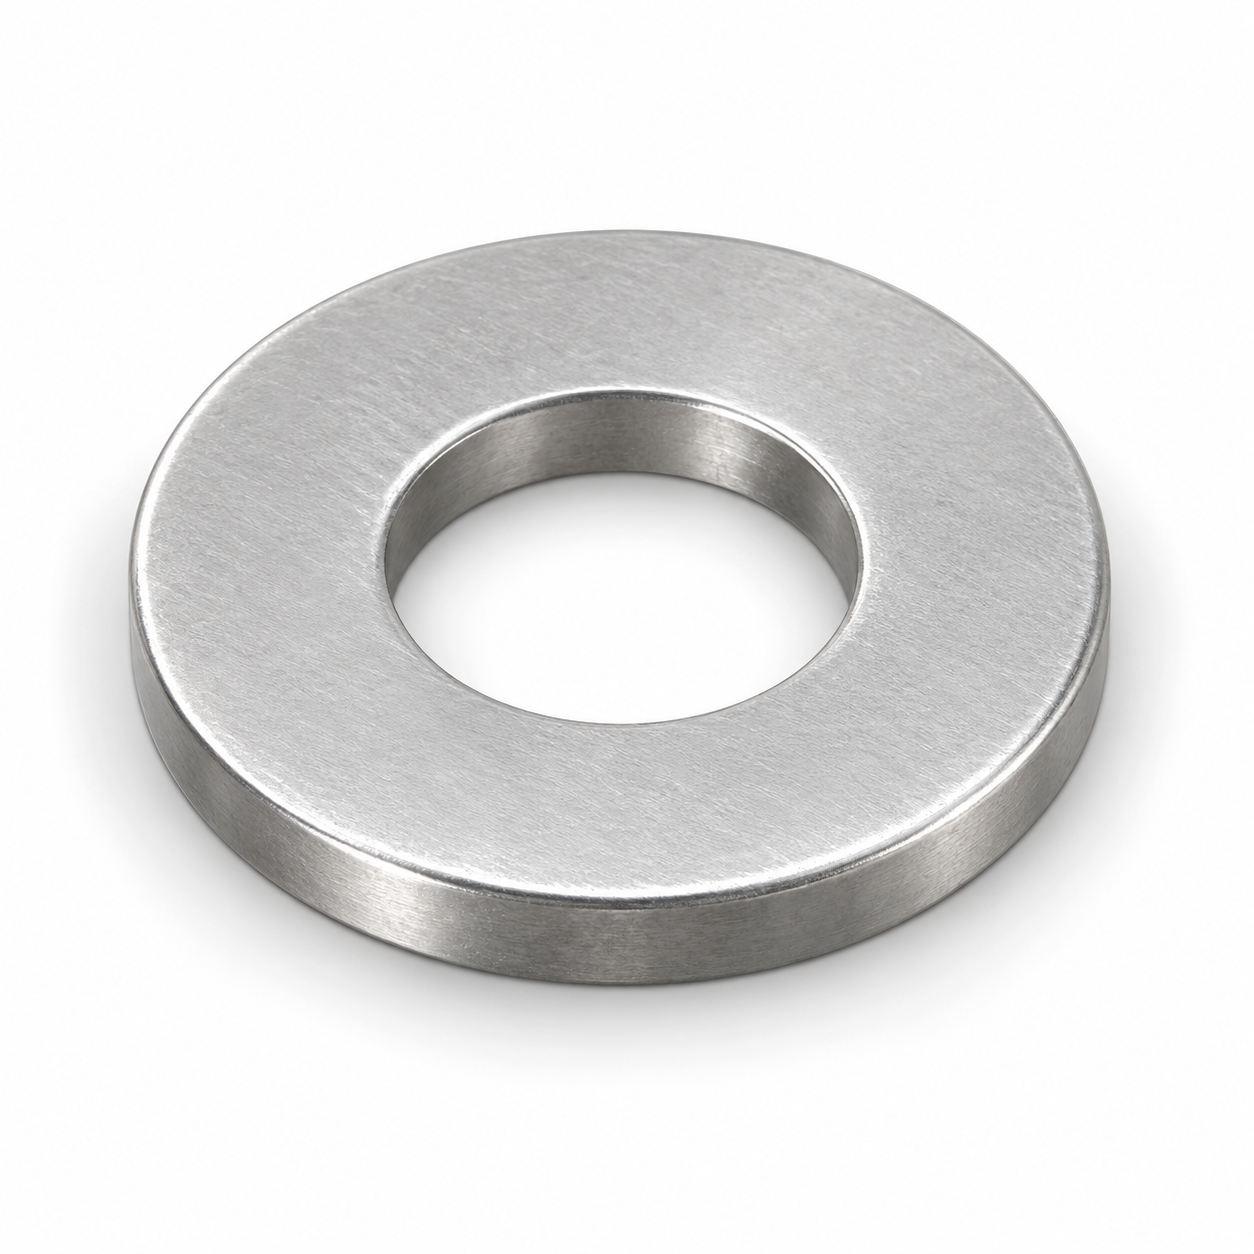
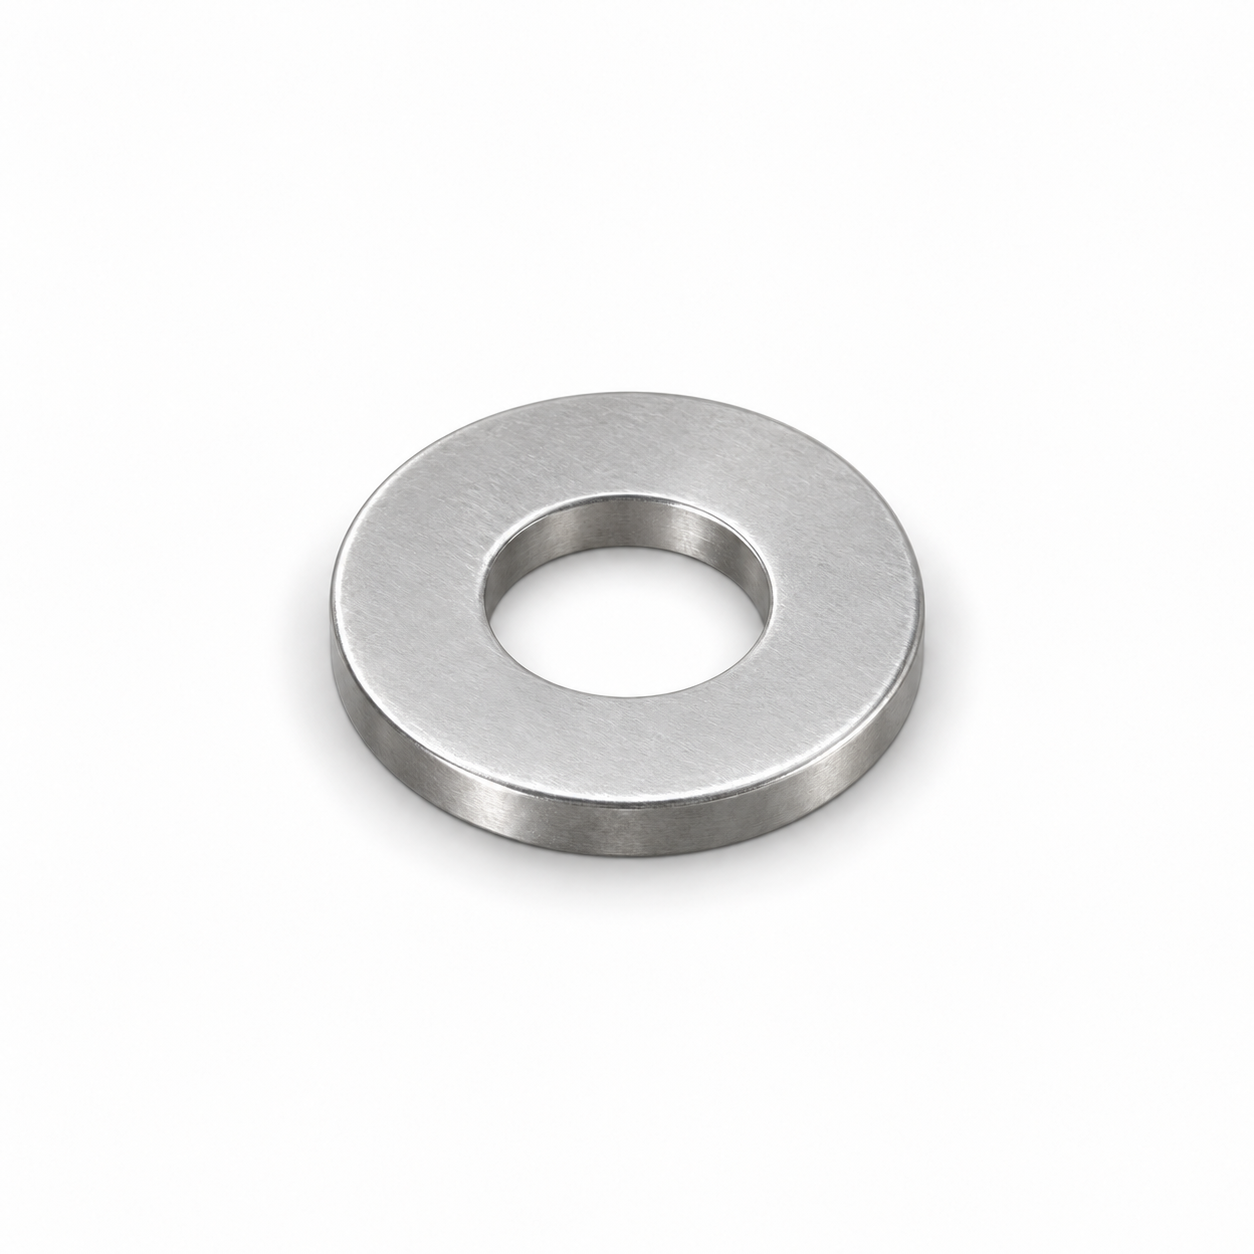
Refine BOM illustrations and UC-01 specifications
Expand UC-01 adapter specifications in all three bilingual product BOMs while retaining model-specific power connections. Reduce nut, washer and PB2.0 x 5 illustration scale, and render the FL left fingertip from the opposing orientation.

Validation: check_docs.py, check_readme_sync.py and git diff --check passed; revised images visually reviewed.

diff --git a/hardware/102-ld/README.md b/hardware/102-ld/README.md
@@ -55,7 +55,7 @@ Printed-part images are rendered from the corresponding STEP models. Fastener im
 | 13 | Left finger ring | star-arm-102-finger-ring-left | <a href="images/star-arm-102-finger-ring-left.png"><img src="images/star-arm-102-finger-ring-left.png" alt="star-arm-102-finger-ring-left" width="90"></a> | Ivory, PLA 3D printed part; wall loops: 2; infill density: 15% | 1 |
 | 14 | Right finger ring | star-arm-102-finger-ring-right | <a href="images/star-arm-102-finger-ring-right.png"><img src="images/star-arm-102-finger-ring-right.png" alt="star-arm-102-finger-ring-right" width="90"></a> | Ivory, PLA 3D printed part; wall loops: 2; infill density: 15% | 1 |
 | 15 | Thrust needle roller bearing | AXK2035+2AS | <img src="../../media/axk2035-2as-bearing.png" alt="AXK2035+2AS thrust needle roller bearing" width="90"> | inner diameter 20 mm, outer diameter 35 mm, thickness 4 mm | 1 |
-| 16 | Circuit board | UC-01 | <img src="../../media/uc-01-primary.webp" alt="UC-01" width="90"> | DC power lead: 0.75 mm², 5.5 × 2.1 mm female, 0.15 m | 1 |
+| 16 | TTL/USB Servo Adapter | UC-01 | <img src="../../media/uc-01-primary.webp" alt="UC-01" width="90"> | USB Type-C; half-/full-duplex conversion; selectable 3.3 V / 5 V TTL levels; 6–15 V input; 2 × PH2.0 servo ports; reverse-polarity protection<br>DC power lead: 0.75 mm², 5.5 × 2.1 mm female, 0.15 m | 1 |
 | 17 | Servo cable | PH2.0 (PH-3Y)<br>120 mm | <a href="../../media/ph-3y-servo-cable-120mm.png"><img src="../../media/ph-3y-servo-cable-120mm-thumbnail.png" alt="PH2.0 120 mm servo cable" width="90"></a> | Black silicone-insulated ribbon cable with black braided sleeving; reversed pin order between ends; 60 × Ø0.08 mm strands per conductor (approx. 22 AWG) | 5 |
 | 18 | Servo cable | PH2.0 (PH-3Y)<br>200 mm | <a href="../../media/ph-3y-servo-cable-200mm.png"><img src="../../media/ph-3y-servo-cable-200mm-thumbnail.png" alt="PH2.0 200 mm servo cable" width="90"></a> | Black silicone-insulated ribbon cable with black braided sleeving; reversed pin order between ends; 60 × Ø0.08 mm strands per conductor (approx. 22 AWG) | 2 |
 | 19 | Socket-head cap screw | M3 × 22 | <a href="../../media/fasteners/m3-22-socket-head-cap-screw.png"><img src="../../media/fasteners/m3-22-socket-head-cap-screw.png" alt="M3 × 22 socket-head cap screw illustration" width="90"></a> | Black finish | 4 |

diff --git a/hardware/102-fl/README.md b/hardware/102-fl/README.md
@@ -56,7 +56,7 @@ Printed-part images are rendered from the corresponding STEP models. Fastener im
 | 14 | Left fingertip | star-arm-102-fingertip-left | <a href="images/star-arm-102-fingertip-left.png"><img src="images/star-arm-102-fingertip-left.png" alt="star-arm-102-fingertip-left" width="90"></a> | Ivory, PLA 3D printed part; wall loops: 4; infill density: 15% | 1 |
 | 15 | Right fingertip | star-arm-102-fingertip-right | <a href="images/star-arm-102-fingertip-right.png"><img src="images/star-arm-102-fingertip-right.png" alt="star-arm-102-fingertip-right" width="90"></a> | Ivory, PLA 3D printed part; wall loops: 4; infill density: 15% | 1 |
 | 16 | Thrust needle roller bearing | AXK2035+2AS | <img src="../../media/axk2035-2as-bearing.png" alt="AXK2035+2AS thrust needle roller bearing" width="90"> | inner diameter 20 mm, outer diameter 35 mm, thickness 4 mm | 1 |
-| 17 | Circuit board | UC-01 | <img src="../../media/uc-01-primary.webp" alt="UC-01" width="90"> | XT30 connector | 1 |
+| 17 | TTL/USB Servo Adapter | UC-01 | <img src="../../media/uc-01-primary.webp" alt="UC-01" width="90"> | USB Type-C; half-/full-duplex conversion; selectable 3.3 V / 5 V TTL levels; 6–15 V input; 2 × PH2.0 servo ports; reverse-polarity protection<br>XT30 connector | 1 |
 | 18 | Servo cable | PH2.0 (PH-3Y)<br>120 mm | <a href="../../media/ph-3y-servo-cable-120mm.png"><img src="../../media/ph-3y-servo-cable-120mm-thumbnail.png" alt="PH2.0 120 mm servo cable" width="90"></a> | Black silicone-insulated ribbon cable with black braided sleeving; reversed pin order between ends; 60 × Ø0.08 mm strands per conductor (approx. 22 AWG) | 4 |
 | 19 | Servo cable | PH2.0 (PH-3Y)<br>200 mm | <a href="../../media/ph-3y-servo-cable-200mm.png"><img src="../../media/ph-3y-servo-cable-200mm-thumbnail.png" alt="PH2.0 200 mm servo cable" width="90"></a> | Black silicone-insulated ribbon cable with black braided sleeving; reversed pin order between ends; 60 × Ø0.08 mm strands per conductor (approx. 22 AWG) | 3 |
 | 20 | Socket-head cap screw | M3 × 22 | <a href="../../media/fasteners/m3-22-socket-head-cap-screw.png"><img src="../../media/fasteners/m3-22-socket-head-cap-screw.png" alt="M3 × 22 socket-head cap screw illustration" width="90"></a> | Black finish | 4 |

diff --git a/hardware/102-ld/README.zh.md b/hardware/102-ld/README.zh.md
@@ -55,7 +55,7 @@
 | 13 | 左指环 | star-arm-102-finger-ring-left | <a href="images/star-arm-102-finger-ring-left.png"><img src="images/star-arm-102-finger-ring-left.png" alt="star-arm-102-finger-ring-left" width="90"></a> | 象牙白，PLA 3D 打印件；壁数：2；填充密度：15% | 1 |
 | 14 | 右指环 | star-arm-102-finger-ring-right | <a href="images/star-arm-102-finger-ring-right.png"><img src="images/star-arm-102-finger-ring-right.png" alt="star-arm-102-finger-ring-right" width="90"></a> | 象牙白，PLA 3D 打印件；壁数：2；填充密度：15% | 1 |
 | 15 | 推力滚针轴承 | AXK2035+2AS | <img src="../../media/axk2035-2as-bearing.png" alt="AXK2035+2AS 滚针轴承" width="90"> | 内径 20 mm，外径 35 mm，厚度 4 mm | 1 |
-| 16 | 电路板 | UC-01 | <img src="../../media/uc-01-primary.webp" alt="UC-01" width="90"> | DC 电源线：0.75 mm²，5.5 × 2.1 mm 母头，0.15 m | 1 |
+| 16 | TTL/USB 舵机转接板 | UC-01 | <img src="../../media/uc-01-primary.webp" alt="UC-01" width="90"> | USB Type-C；半双工／全双工转换；3.3 V／5 V TTL 电平可切换；输入电压 6–15 V；2 个 PH2.0 舵机接口；反接保护<br>DC 电源线：0.75 mm²，5.5 × 2.1 mm 母头，0.15 m | 1 |
 | 17 | 舵机连接线 | PH2.0 (PH-3Y)<br>120 mm | <a href="../../media/ph-3y-servo-cable-120mm.png"><img src="../../media/ph-3y-servo-cable-120mm-thumbnail.png" alt="PH2.0 120 mm 舵机连接线" width="90"></a> | 黑色硅胶绝缘排线，外覆黑色编织护套；两端线序反向；每根导体 60 × Ø0.08 mm（约 22 AWG） | 5 |
 | 18 | 舵机连接线 | PH2.0 (PH-3Y)<br>200 mm | <a href="../../media/ph-3y-servo-cable-200mm.png"><img src="../../media/ph-3y-servo-cable-200mm-thumbnail.png" alt="PH2.0 200 mm 舵机连接线" width="90"></a> | 黑色硅胶绝缘排线，外覆黑色编织护套；两端线序反向；每根导体 60 × Ø0.08 mm（约 22 AWG） | 2 |
 | 19 | 内六角圆柱头螺钉 | M3 × 22 | <a href="../../media/fasteners/m3-22-socket-head-cap-screw.png"><img src="../../media/fasteners/m3-22-socket-head-cap-screw.png" alt="M3 × 22 内六角圆柱头螺钉示意图" width="90"></a> | 黑色表面 | 4 |

diff --git a/hardware/102-fl/README.zh.md b/hardware/102-fl/README.zh.md
@@ -56,7 +56,7 @@
 | 14 | 左指尖 | star-arm-102-fingertip-left | <a href="images/star-arm-102-fingertip-left.png"><img src="images/star-arm-102-fingertip-left.png" alt="star-arm-102-fingertip-left" width="90"></a> | 象牙白，PLA 3D 打印件；壁数：4；填充密度：15% | 1 |
 | 15 | 右指尖 | star-arm-102-fingertip-right | <a href="images/star-arm-102-fingertip-right.png"><img src="images/star-arm-102-fingertip-right.png" alt="star-arm-102-fingertip-right" width="90"></a> | 象牙白，PLA 3D 打印件；壁数：4；填充密度：15% | 1 |
 | 16 | 推力滚针轴承 | AXK2035+2AS | <img src="../../media/axk2035-2as-bearing.png" alt="AXK2035+2AS 滚针轴承" width="90"> | 内径 20 mm，外径 35 mm，厚度 4 mm | 1 |
-| 17 | 电路板 | UC-01 | <img src="../../media/uc-01-primary.webp" alt="UC-01" width="90"> | XT30 接口 | 1 |
+| 17 | TTL/USB 舵机转接板 | UC-01 | <img src="../../media/uc-01-primary.webp" alt="UC-01" width="90"> | USB Type-C；半双工／全双工转换；3.3 V／5 V TTL 电平可切换；输入电压 6–15 V；2 个 PH2.0 舵机接口；反接保护<br>XT30 接口 | 1 |
 | 18 | 舵机连接线 | PH2.0 (PH-3Y)<br>120 mm | <a href="../../media/ph-3y-servo-cable-120mm.png"><img src="../../media/ph-3y-servo-cable-120mm-thumbnail.png" alt="PH2.0 120 mm 舵机连接线" width="90"></a> | 黑色硅胶绝缘排线，外覆黑色编织护套；两端线序反向；每根导体 60 × Ø0.08 mm（约 22 AWG） | 4 |
 | 19 | 舵机连接线 | PH2.0 (PH-3Y)<br>200 mm | <a href="../../media/ph-3y-servo-cable-200mm.png"><img src="../../media/ph-3y-servo-cable-200mm-thumbnail.png" alt="PH2.0 200 mm 舵机连接线" width="90"></a> | 黑色硅胶绝缘排线，外覆黑色编织护套；两端线序反向；每根导体 60 × Ø0.08 mm（约 22 AWG） | 3 |
 | 20 | 内六角圆柱头螺钉 | M3 × 22 | <a href="../../media/fasteners/m3-22-socket-head-cap-screw.png"><img src="../../media/fasteners/m3-22-socket-head-cap-screw.png" alt="M3 × 22 内六角圆柱头螺钉示意图" width="90"></a> | 黑色表面 | 4 |

diff --git a/hardware/102-hd/README.md b/hardware/102-hd/README.md
@@ -56,7 +56,7 @@ Printed-part images are rendered from the corresponding STEP models. Fastener im
 | 14 | Right finger ring | star-arm-102-finger-ring-right | <a href="images/star-arm-102-finger-ring-right.png"><img src="images/star-arm-102-finger-ring-right.png" alt="star-arm-102-finger-ring-right" width="90"></a> | Ivory, PLA 3D printed part; wall loops: 2; infill density: 15% | 1 |
 | 15 | Button cover | hd-button-cover | <a href="images/hd-button-cover.png"><img src="images/hd-button-cover.png" alt="hd-button-cover" width="90"></a> | Ivory, PLA 3D printed part; wall loops: 2; infill density: 15% | 1 |
 | 16 | Button base | hd-button-base | <a href="images/hd-button-base.png"><img src="images/hd-button-base.png" alt="hd-button-base" width="90"></a> | Ivory, PLA 3D printed part; wall loops: 2; infill density: 15% | 1 |
-| 17 | Circuit board | UC-01 | <img src="../../media/uc-01-primary.webp" alt="UC-01" width="90"> | XT30 connector | 1 |
+| 17 | TTL/USB Servo Adapter | UC-01 | <img src="../../media/uc-01-primary.webp" alt="UC-01" width="90"> | USB Type-C; half-/full-duplex conversion; selectable 3.3 V / 5 V TTL levels; 6–15 V input; 2 × PH2.0 servo ports; reverse-polarity protection<br>XT30 connector | 1 |
 | 18 | Button board | UK-01 | <a href="images/uk-01-board.webp"><img src="images/uk-01-board.webp" alt="UK-01 board" width="90"></a> | With socket | 1 |
 | 19 | Thrust needle roller bearing | AXK2035+2AS | <img src="../../media/axk2035-2as-bearing.png" alt="AXK2035+2AS thrust needle roller bearing" width="90"> | inner diameter 20 mm, outer diameter 35 mm, thickness 4 mm | 1 |
 | 20 | Servo cable | PH2.0 (PH-3Y)<br>120 mm | <a href="../../media/ph-3y-servo-cable-120mm.png"><img src="../../media/ph-3y-servo-cable-120mm-thumbnail.png" alt="PH2.0 120 mm servo cable" width="90"></a> | Black silicone-insulated ribbon cable with black braided sleeving; reversed pin order between ends; 60 × Ø0.08 mm strands per conductor (approx. 22 AWG) | 6 |

diff --git a/hardware/102-hd/README.zh.md b/hardware/102-hd/README.zh.md
@@ -56,7 +56,7 @@
 | 14 | 右指环 | star-arm-102-finger-ring-right | <a href="images/star-arm-102-finger-ring-right.png"><img src="images/star-arm-102-finger-ring-right.png" alt="star-arm-102-finger-ring-right" width="90"></a> | 象牙白，PLA 3D 打印件；壁数：2；填充密度：15% | 1 |
 | 15 | 按钮上盖 | hd-button-cover | <a href="images/hd-button-cover.png"><img src="images/hd-button-cover.png" alt="hd-button-cover" width="90"></a> | 象牙白，PLA 3D 打印件；壁数：2；填充密度：15% | 1 |
 | 16 | 按钮底座 | hd-button-base | <a href="images/hd-button-base.png"><img src="images/hd-button-base.png" alt="hd-button-base" width="90"></a> | 象牙白，PLA 3D 打印件；壁数：2；填充密度：15% | 1 |
-| 17 | 电路板 | UC-01 | <img src="../../media/uc-01-primary.webp" alt="UC-01" width="90"> | XT30 接口 | 1 |
+| 17 | TTL/USB 舵机转接板 | UC-01 | <img src="../../media/uc-01-primary.webp" alt="UC-01" width="90"> | USB Type-C；半双工／全双工转换；3.3 V／5 V TTL 电平可切换；输入电压 6–15 V；2 个 PH2.0 舵机接口；反接保护<br>XT30 接口 | 1 |
 | 18 | 按钮板 | UK-01 | <a href="images/uk-01-board.webp"><img src="images/uk-01-board.webp" alt="UK-01 电路板" width="90"></a> | 带座子 | 1 |
 | 19 | 推力滚针轴承 | AXK2035+2AS | <img src="../../media/axk2035-2as-bearing.png" alt="AXK2035+2AS 滚针轴承" width="90"> | 内径 20 mm，外径 35 mm，厚度 4 mm | 1 |
 | 20 | 舵机连接线 | PH2.0 (PH-3Y)<br>120 mm | <a href="../../media/ph-3y-servo-cable-120mm.png"><img src="../../media/ph-3y-servo-cable-120mm-thumbnail.png" alt="PH2.0 120 mm 舵机连接线" width="90"></a> | 黑色硅胶绝缘排线，外覆黑色编织护套；两端线序反向；每根导体 60 × Ø0.08 mm（约 22 AWG） | 6 |
